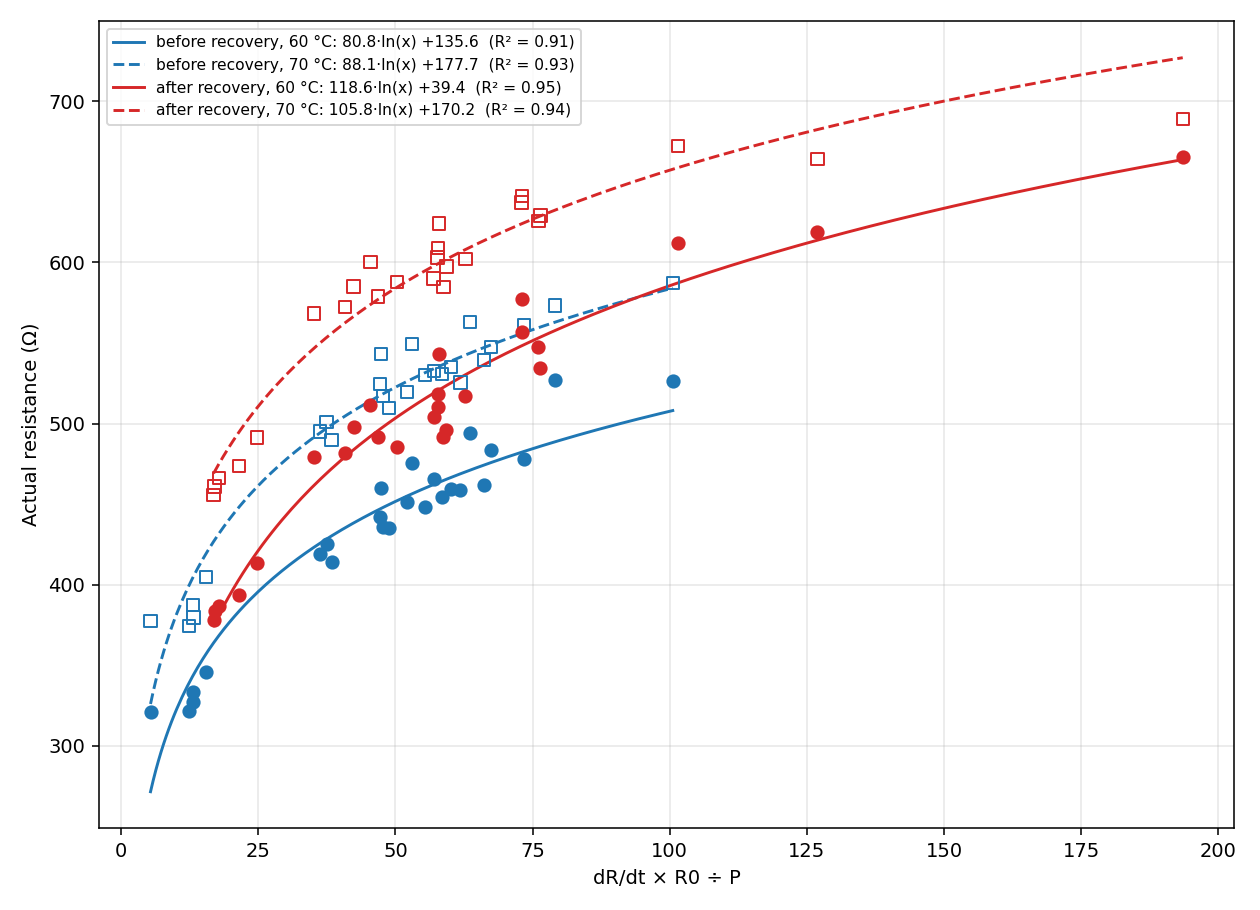
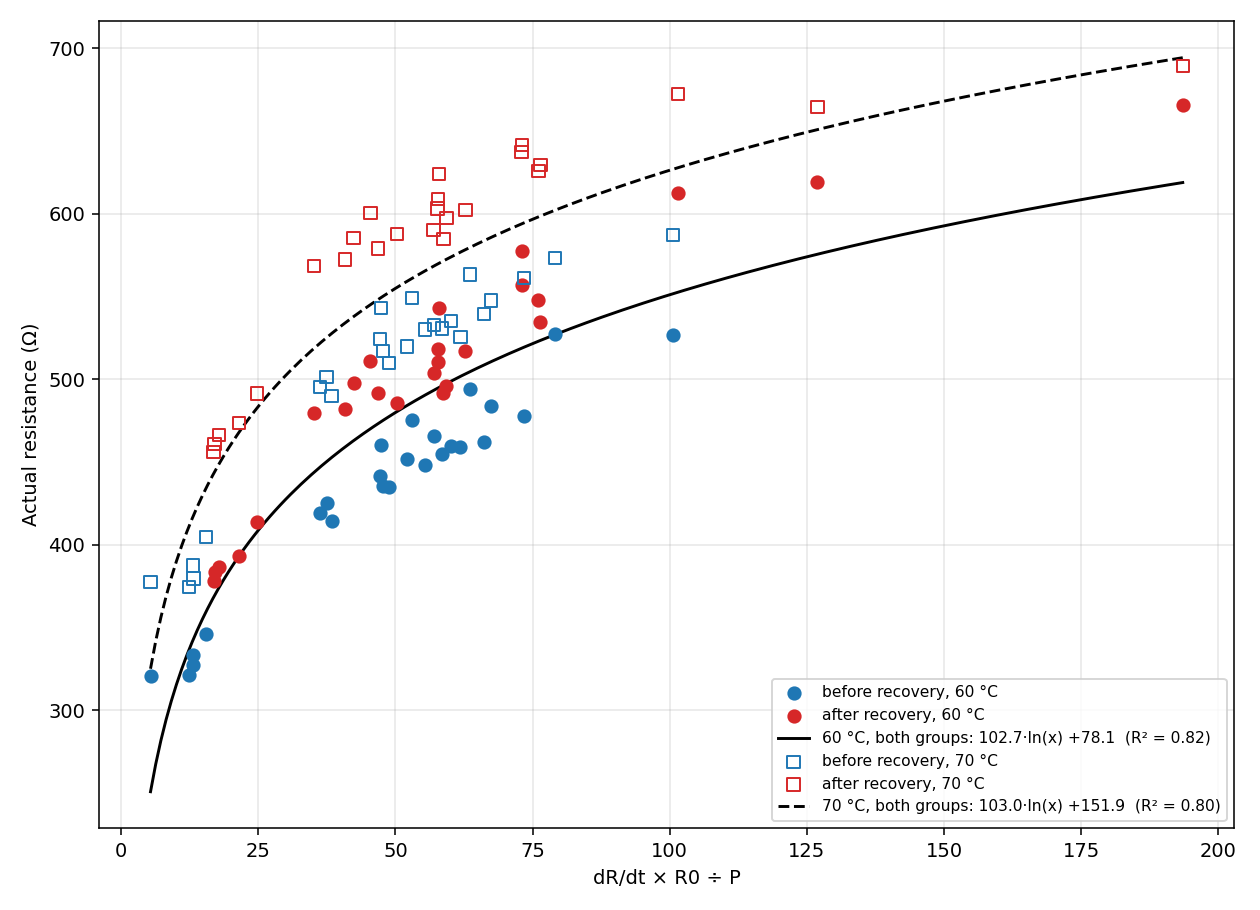
recovery: one ln fit per temp on combined data

diff --git a/IR+T_Couple+reist 16 Oct/output/recovery_R60_R70_ln.py b/IR+T_Couple+reist 16 Oct/output/recovery_R60_R70_ln.py
@@ -1,15 +1,18 @@
-"""R60 and R70 vs x = dR/dt*R0/P on one graph, ln fit for before / after recovery (colour = group, filled = 60 C, hollow = 70 C)."""
+"""R60 and R70 vs x = dR/dt*R0/P: one ln fit per temperature on before + after recovery combined (colour = group, filled = 60 C, hollow = 70 C)."""
 import numpy as np, pandas as pd, matplotlib
 matplotlib.use("Agg")
 import matplotlib.pyplot as plt
 
 G = {"before recovery": ("prediction_before_recovery.csv", "C0"), "after recovery": ("prediction_after_recovery.csv", "C3")}
+d = pd.concat([pd.read_csv(f).assign(group=g) for g, (f, _) in G.items()], ignore_index=True)
+d["x"] = d.dR_dt_ohm_s * d.initial_resistance_ohm / d.power_at_100pct_pwm_mW
 fig, ax = plt.subplots(figsize=(9, 6.5))
-for g, (f, c) in G.items():
-    d = pd.read_csv(f); x = d.dR_dt_ohm_s * d.initial_resistance_ohm / d.power_at_100pct_pwm_mW; xs = np.linspace(x.min(), x.max(), 200)
-    for deg, ls, mk in ((60, "-", "o"), (70, "--", "s")):
-        y = d[f"actual_R{deg}_ohm"]; k = np.polyfit(np.log(x), y, 1); r2 = np.corrcoef(np.log(x), y)[0, 1] ** 2
-        ax.scatter(x, y, marker=mk, s=40, facecolors=c if deg == 60 else "none", edgecolors=c, zorder=3)
-        ax.plot(xs, np.polyval(k, np.log(xs)), c=c, ls=ls, label=f"{g}, {deg} °C: {k[0]:.1f}·ln(x) {k[1]:+.1f}  (R² = {r2:.2f})")
+for deg, ls, mk in ((60, "-", "o"), (70, "--", "s")):
+    for g, (_, c) in G.items():
+        s = d[d.group == g]
+        ax.scatter(s.x, s[f"actual_R{deg}_ohm"], marker=mk, s=40, facecolors=c if deg == 60 else "none", edgecolors=c, label=f"{g}, {deg} °C", zorder=3)
+    y = d[f"actual_R{deg}_ohm"]; k = np.polyfit(np.log(d.x), y, 1); r2 = np.corrcoef(np.log(d.x), y)[0, 1] ** 2
+    xs = np.linspace(d.x.min(), d.x.max(), 200)
+    ax.plot(xs, np.polyval(k, np.log(xs)), "k", ls=ls, label=f"{deg} °C, both groups: {k[0]:.1f}·ln(x) {k[1]:+.1f}  (R² = {r2:.2f})")
 ax.set_xlabel("dR/dt × R0 ÷ P"); ax.set_ylabel("Actual resistance (Ω)"); ax.grid(alpha=.3); ax.legend(fontsize=8)
 fig.tight_layout(); fig.savefig("recovery_R60_R70_vs_RdRdtP.png", dpi=140)
